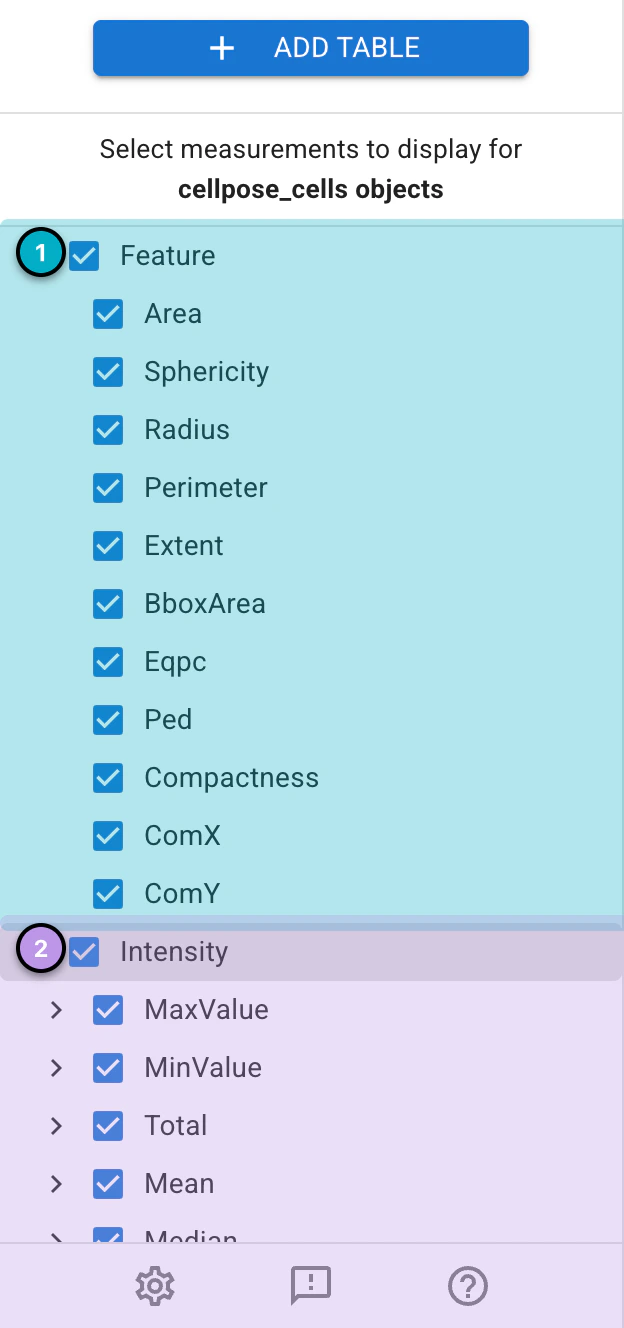
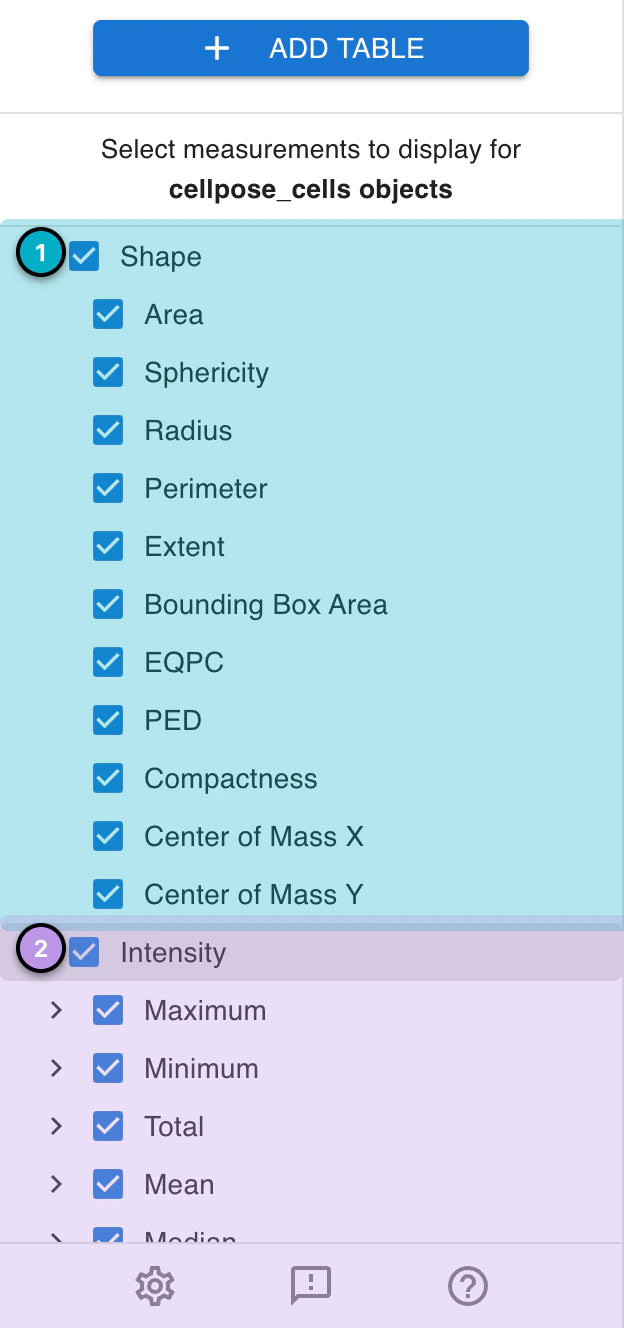
Updates (#68)
* update images with new measurement names

* update save and load project file section for `.piximi` file type

diff --git a/piximi-documentation/pages/detail/projectviewer.md b/piximi-documentation/pages/detail/projectviewer.md
@@ -27,11 +27,11 @@ This view is also where you can **categorize** your images and perform **classif
 - **Project Creation**: Clicking **NEW** opens a new project. You will be prompted to input a new project name, and the current project will be replaced with a blank one.
 
 - **Open a Project**: Clicking **OPEN** opens a menu which allows you to:
-  - Open a previously saved project (`.zip` or `.zarr`)
+  - Open a previously saved `.piximi` project file. (or `.zip` / `.zarr` from previous piximi versions)
   - Open one of Piximi's provided example projects (see [here](../technical/example-datasets.md) for information about the datasets)
   - Open a new image (PNG, JPEG, TIFF, DICOM, BMP, or HEIF formats). <span style="color: var(--pst-color-warning)"> Piximi requires all image in the project to have the same number of channels</span>
 
-- **Save Project**: Clicking **SAVE** saves the project as a compressed `.zip` file containing a `.zarr` directory with the project data as well as any trained classifiers used in the project.
+- **Save Project**: Clicking **SAVE** saves the project to a `.piximi` file with the project data as well as any trained classifiers used in the project.
 
 ### 2. Learning Task
 
@@ -78,7 +78,7 @@ The grid has two views, toggled at the top: **Images** and **Annotations**.
 ```
 ````
 
-```{tip} 
+```{tip}
 **Want to change the colors or display settings used on the images?**
 
 You can do so by selecting one or more images and then opening them in the [Image Viewer](imageviewer.md)
